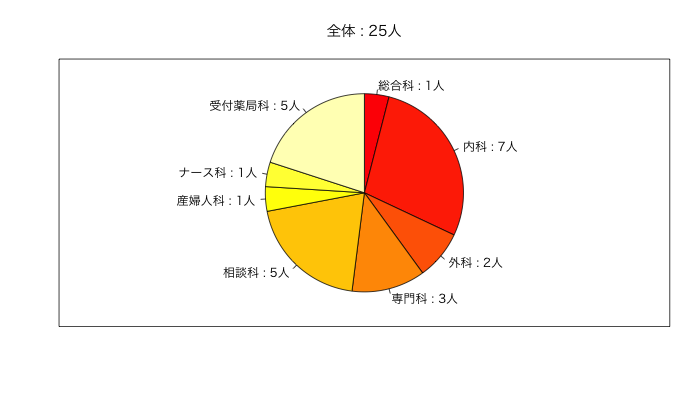
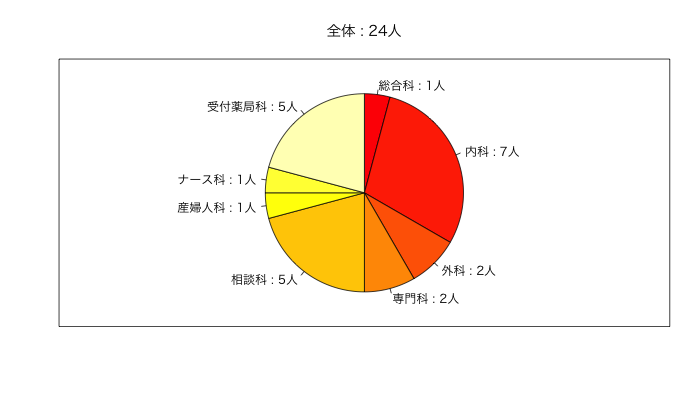
修正

diff --git a/ReadMe.md b/ReadMe.md
@@ -26,7 +26,6 @@
 |医院長|相談科|あめ||
 |副医院長|受付薬局科|Sherry||
 |副医院長|受付薬局科|にこ||
-|副医院長補佐|専門科|愛海||
 |部長|内科|Fx||
 |部長|内科|くぅ||
 |部長|内科|まあ||
@@ -52,12 +51,12 @@
 |オーナー|1|0|0|0|0|0|0|0|1|
 |医院長|0|0|1|2|1|0|0|0|4|
 |副医院長|0|0|0|0|0|0|0|2|2|
-|副医院長補佐|0|0|0|1|0|0|0|0|1|
+|副医院長補佐|0|0|0|0|0|0|0|0|0|
 |医局長|0|0|0|0|0|0|0|0|0|
 |事務局長|0|0|0|0|0|0|0|0|0|
 |部長|0|4|1|0|1|1|1|2|10|
 |主任|0|3|0|0|3|0|0|1|7|
-|合計|1|7|2|3|5|1|1|5|25|
+|合計|1|7|2|2|5|1|1|5|24|
 
 <img src="https://github.com/fairy00000/organization/blob/master/image/Member.png">
 
